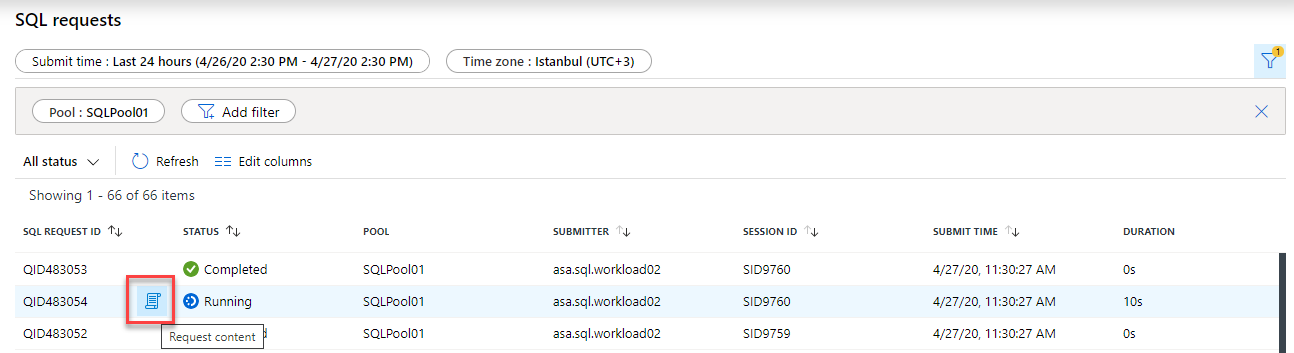
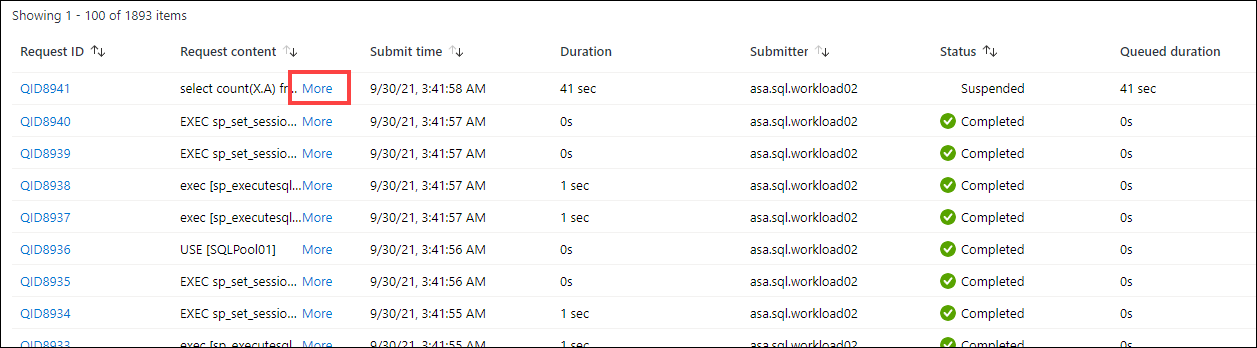
Update lab 8

diff --git a/day-03/lab08-monitoring.md b/day-03/lab08-monitoring.md
@@ -157,6 +157,8 @@ Users should avoid a workload management solution that configures 100% workload 
 
 5. Select **Run** from the toolbar menu to execute the SQL command.
 
+    > **Please note:** If this query takes more than 30 seconds to execute, stop the query and run again. You might have to do this a few times, depending on how long it takes for the SQL queries executed by the pipeline to end.
+
 6. In the query window, replace the script with the following to create a workload Classifier called `CEODreamDemo` that assigns a workload group and importance to incoming requests:
 
     ```sql
@@ -315,7 +317,7 @@ All logins to your data warehouse are logged to `sys.dm_pdw_exec_sessions`. This
 
 13. Select **Run** from the toolbar menu to execute the SQL command. You should see the previously run query in the results view.
 
-14. In the query window, replace the script with the following to retrieve the query's distributed SQL (DSQL) plan from `sys.dm_pdw_request_steps`. **Be sure to replace** the `QID#####` with the `Request_ID` you noted in Step 8:
+14. In the query window, replace the script with the following to retrieve the query's distributed SQL (DSQL) plan from `sys.dm_pdw_request_steps`. **Be sure to replace** the `QID#####` with the `Request_ID` you noted in Step 12:
 
     ```sql
     SELECT * FROM sys.dm_pdw_request_steps
@@ -355,9 +357,21 @@ All logins to your data warehouse are logged to `sys.dm_pdw_exec_sessions`. This
 
     ![The SQL requests blade is displayed within the Monitor hub.](media/ex02-task03-02.png "Monitor - SQL requests")
 
-4. Hover onto a SQL Request log and select `Request Content` to access the actual T-SQL command executed as part of the SQL Request.
+4. Select **More** on a request to access the actual T-SQL command executed as part of the SQL Request.
 
     ![The request content link is displayed over a SQL request.](media/ex02-task03-03.png "SQL requests")
+
+## Cleanup: Pause the dedicated SQL pool
+
+1. Navigate to the **Manage** hub.
+
+    ![The Manage menu item is highlighted.](media/manage-hub.png "Manage hub")
+
+2. From the center menu, select **SQL pools** from beneath the **Analytics pools** heading. Locate `SQLPool01`, and select the **Pause** button.
+
+    ![The Manage menu item is selected, with SQL pools selected from the center menu. The resume button is selected next to the SQLPool01 item.](media/pause-sql-pool.png "SQL pools listing")
+
+3. When prompted, select **Pause**.
 
 ## Resources
 
